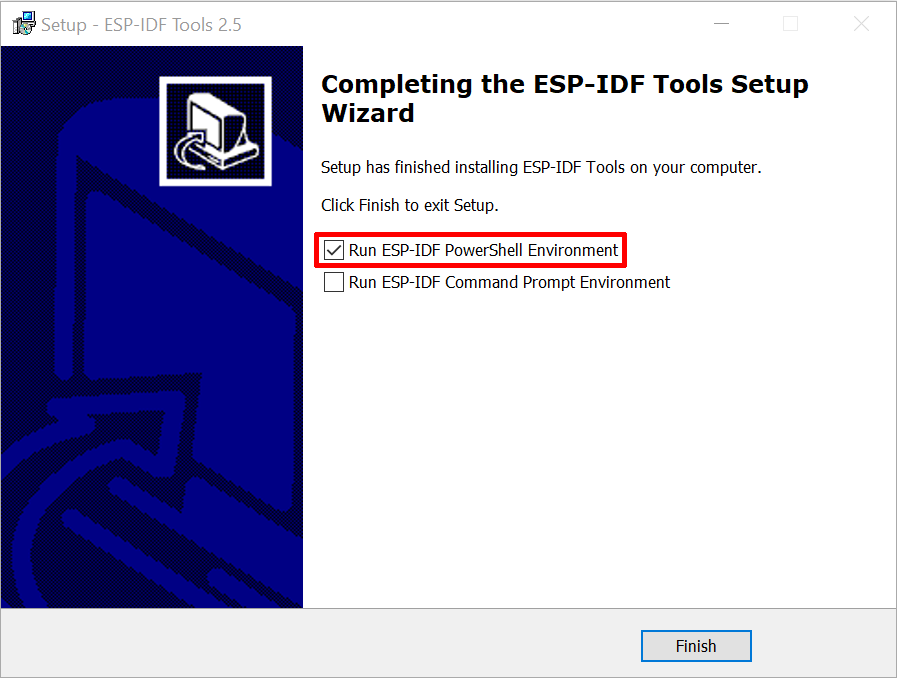
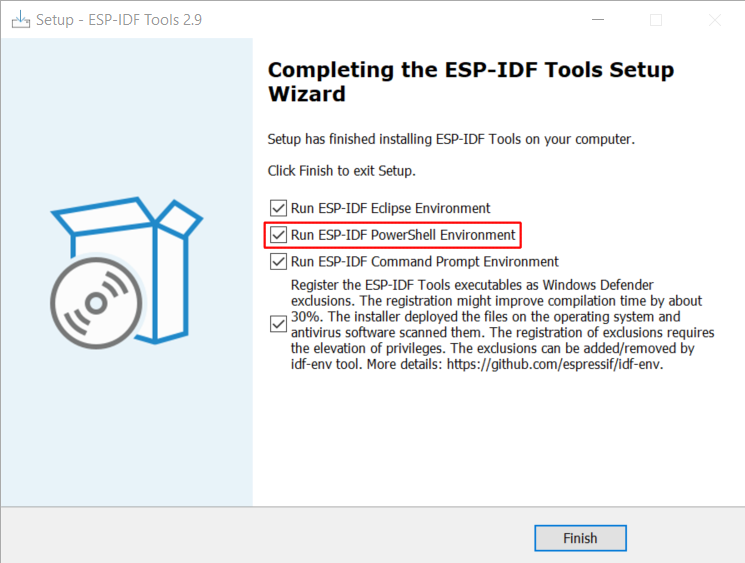
docs: update Windows Tools 2.9 installation

diff --git a/docs/en/get-started/windows-setup.rst b/docs/en/get-started/windows-setup.rst
@@ -39,7 +39,7 @@ What is the usecase for Online and Offline Installer
 
 Online Installer is very small and allows the installation of all available releases of ESP-IDF. The installer will download only necessary dependencies including `Git For Windows`_  during the installation process. The installer stores downloaded files in the cache directory ``%userprofile%\.espressif``
 
-Offline Installer does not require any network connection. The installer contains all required dependencies including `Git For Windows`_ . The installer allows the installation of ESP-IDF with the following tags: v4.2, v4.1.1.
+Offline Installer does not require any network connection. The installer contains all required dependencies including `Git For Windows`_ .
 
 Components of the installation
 ------------------------------

diff --git a/docs/zh_CN/get-started/windows-setup.rst b/docs/zh_CN/get-started/windows-setup.rst
@@ -39,7 +39,7 @@ ESP-IDF 工具安装器
 
 在线安装程序非常小，可以安装 ESP-IDF 的所有版本。在安装过程中，安装程序只下载必要的依赖文件，包括 `Git For Windows`_ 安装器。在线安装程序会将下载的文件存储在缓存目录 ``%userprofile%/espressif`` 中。
 
-离线安装程序不需要任何网络连接。安装程序中包含了所有需要的依赖文件，包括 `Git For Windows`_ 安装器。该安装程序可以安装 v4.2 和 v4.1.1 版本的 ESP-IDF。
+离线安装程序不需要任何网络连接。安装程序中包含了所有需要的依赖文件，包括 `Git For Windows`_ 安装器。
 
 安装内容
 ------------
